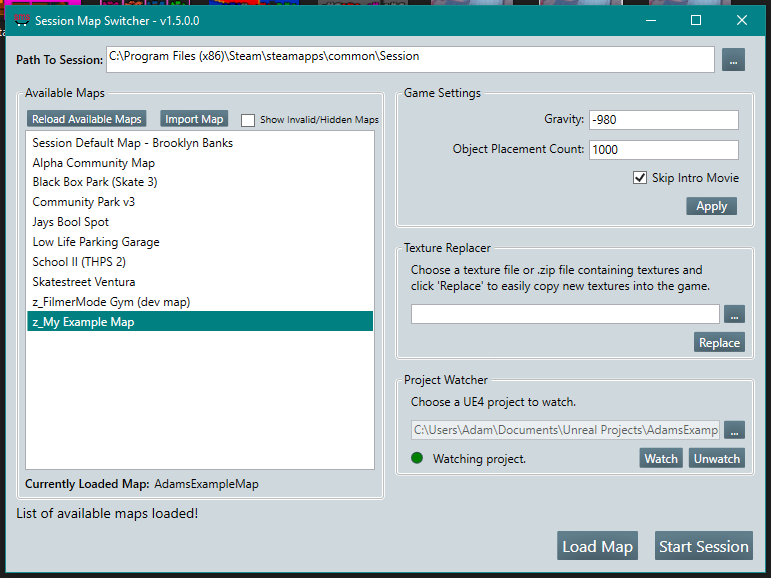
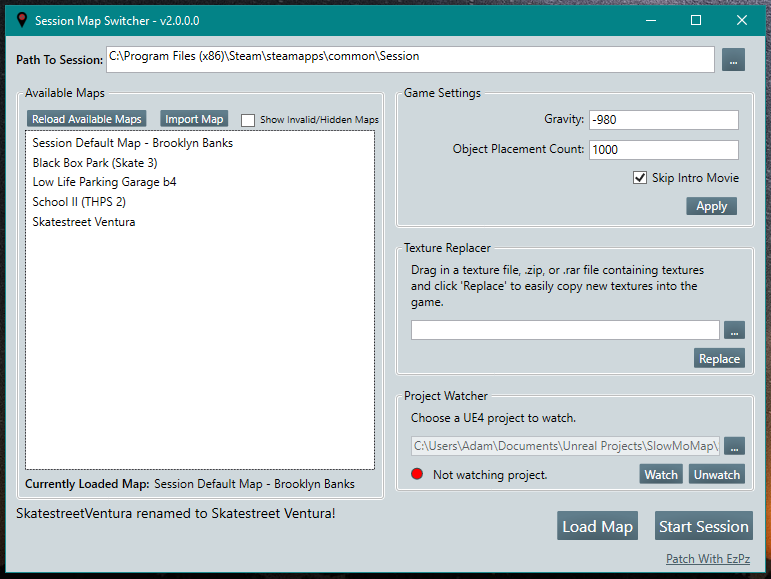
update(README): reflect 2.0 update
- unpacking section change to patching section
- updated to reflect 2.0 changes
- add credits section
- update app screenshot

diff --git a/README.md b/README.md
@@ -4,7 +4,7 @@ This is a Desktop Application to make switching between Session maps in-game eas
 ![](https://github.com/rodriada000/SessionMapSwitcher/blob/master/docs/images/app_screenshot.png?raw=true "App Screenshot")
 
 ### Features
-* Map Switcher can automatically unpack your Session game for you so you can play custom modded maps and have custom textures within minutes.
+* Map Switcher can download the required patch (thanks to dga711) for Session to play custom modded maps and have custom textures within minutes.
 * Easily load custom maps and switch between maps in-game without having to restart the game everytime you want to play a new map.
 * Import custom maps from the online community using the `Import Map > From Online ...` feature.
 * Easily replace textures with custom ones. Map Switcher will automatically find the correct texture files to replace for you.
@@ -15,24 +15,21 @@ This is a Desktop Application to make switching between Session maps in-game eas
 ## Notes Before Using
 * **NOTE:** You should start the game using Session Map Switcher's `Start Session` button. If Session is already running then close the game and start it from Session Map Switcher instead.
 * **NOTE:** You will have to load the custom map from map switcher when you enter the apartment in-game otherwise the original default map will load after you leave the apartment to go skate.
-* **NOTE:** This tool will make a backup of the original Session map so you can always switch back to playing the map that came with the game. The original map is the first map in the Available Maps list named "Session Default Map - Brooklyn Banks"
-
 
 ## How To Use
 
-### Unpacking The Game
-_Skip this if you already unpacked the game._
+### Patching The Game
+_Skip this if you already patched the game._
 1. Download the [latest release here](https://github.com/rodriada000/SessionMapSwitcher/releases/latest).
 2. Unzip the program anywhere you like.
 3. Open SessionMapSwitcher.exe.
-4. Set the `Path To Session` by clicking the `...` button or pasting the path and pressing `Enter` key. **The path should be the top level folder of the game directory e.g. `C:\Program Files (x86)\Steam\steamapps\common\Session`.** ![](https://github.com/rodriada000/SessionMapSwitcher/blob/master/docs/images/app_after_path_select.png?raw=true "Set Session Path")
-5. Click `Unpack Game` or `Start Session` and you will be prompted to download the required files to unpack. ![](https://github.com/rodriada000/SessionMapSwitcher/blob/master/docs/images/app_pack_detected.png?raw=true "Game Not Unpacked Detected Screen")
+4. Set the `Path To Session` by clicking the `...` button or pasting the path and pressing `Enter` key. **The path should be the top level folder of the game directory e.g. `C:\Program Files (x86)\Steam\steamapps\common\Session`.**
+5. Click `Patch With EzPz` and you will be prompted to download the required files to patch the game.
 > Note: If the program is not running as Administrator then it will ask you to restart the program as administrator first to ensure the unpacking process completes succesfully.
 
 > Note: The download can fail sometimes because the file host is not good. Retry a couple of times if the download fails until it succeeds.  
-6. Let the unpacking process run. It can take anywhere from 5-10 minutes depending on download speeds and your computer speed. You should see a CMD window open while the process is happening.
-7. Map Switcher will output the status of the unpacking process so you know when it is complete. After that you can play custom maps and replace textures.
-> Note: The unpacking process can fail to run the downloaded .bat file if your PC security settings are set too high.
+6. Map Switcher will extract a few files from the game and then open Session EzPz Mod. When this window opens click `Patch` and close the window. 
+7. Map Switcher will output the status of the patching process so you know when it is complete. After that you can play custom maps and replace textures.
 
 
 ### Adding Custom Maps to Play
@@ -93,4 +90,8 @@ _This assumes you already unpacked the game and have Session Map Switcher open._
 2. In Map Switcher click the `...` button inside the `Texture Replacer` section. In the file browse window that opens select the `.uasset` or `.zip` file you downloaded. ![](https://github.com/rodriada000/SessionMapSwitcher/blob/master/docs/images/app_replace_texture.png?raw=true "Replace Textures Example")
 > NOTE: You only need to select the one `.uasset` file. Map Switcher will know to copy the other required files.
 3. Click `Replace` and the texture will be replaced.
-> NOTE: Map Switcher relies on the file name to find the correct texture to replace. If the filename of the texture does not match a texture name in the game then you will get an error saying it could not find the texture to replace.
+> NOTE: Map Switcher relies on the texture files to be cooked with the correct folder path to find the correct texture to replace. If the texture is not cooked with the correct path then the texture may be copied to the incorrect location.
+
+## Credits
+* Thanks to dga711 for the EzPz Mod
+* Thanks to [Session modding community](https://discord.gg/YT2z5DU)
